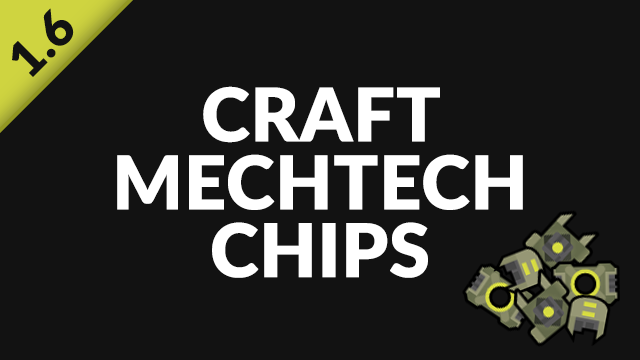
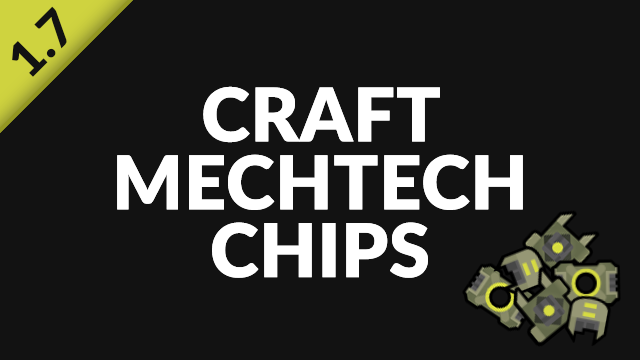
V1.7.0
* Updated to Rimworld 1.7

* Fixed line breaks

* Updated readme

diff --git a/README.md b/README.md
@@ -9,7 +9,7 @@ Unlock the power to craft mechtech chips through research once you've analyzed t
 
 Additionally, this mod introduces a research project for Mechlink crafting.
 
-This mod is safe to add or remove from your saves at any time (though it's best not to remove it during the crafting process).
+This mod can be added to existing saves. Before removing it, back up your save and finish or cancel any active crafting jobs and bills added by this mod.
 
 This mod is tailored for end-game progression, offering experienced players an alternative pathway to enhance their technological capabilities. It aims to offer a supplementary method for advancing within the game.
 
@@ -18,8 +18,8 @@ This mod is tailored for end-game progression, offering experienced players an a
 ![How to](images/rw-mod-strip.png)
 
 1. Analyze the chip.
-2. Unlock the crafting ability through research in the crafting tab.
-3. Fabricate the mechtech chip using a fabricator.
+2. Unlock the crafting ability through research in the Mechtech crafting tab.
+3. Fabricate the mechtech chip at a fabrication bench.
 
 ### ![Features](images/rimworld-features.png)
 
@@ -37,42 +37,51 @@ The ability to craft
 
 Now compatible with the AlphaMechs mod, allowing you to craft Hyper-linkage chips, Stellar processing chips, and Quantum matrix chips! (Ensure this mod is loaded after AlphaMechs for proper functionality.)
 
-## In-game values
-### Research time
-Requires Multi analyzer.
-- Signal chip: 3000
-- Powerfocus chip: 4000
-- Nanostructuring chip: 5000
+## In-game values (RimWorld 1.6 / 1.7)
+### Base research cost
+Requires Multi analyzer for Powerfocus, Nano structuring, and Mechlink research.
+- Signal chip: 2000
+- Powerfocus chip: 2500
+- Nanostructuring chip: 3000
+- Mechlink: 6000
 ### Crafting costs
 Requires Fabrication bench.
 #### Signal chip
 - Basic subcore (1)
-- Advanced component (6)
-- Plasteel (50)
+- Advanced component (4)
+- Plasteel (30)
 #### Powerfocus chip
 - Signal chip (2)
 - Standard subcore (1)
 - Advanced component (6)
-- Plasteel (75)
+- Plasteel (40)
 #### Nano structuring chip
 - Powerfocus chip (2)
 - High subcore (1)
-- Plasteel (120)
+- Plasteel (50)
 - Advanced component (8)
+- Uranium (10)
+#### Mechlink
+- High subcore (2)
+- Integrator headset (1)
+- AI persona core (1)
+- Advanced component (16)
 ### Skills needed to craft
 - Signal chip: 9 crafting (can be crafted by fabricators)
 - Powerfocus chip: 10 crafting (can be crafted by fabricators)
-- Nano structuring chip: 10 crafting, 16 intellectual (must be crafted by a colonist)
-### Amount of work (time)
+- Nano structuring chip: 10 crafting, 14 intellectual (must be crafted by a colonist)
+- Mechlink: 10 crafting, 18 intellectual (must be crafted by a colonist)
+### Work amount
 - Signal chip: 8000
 - Powerfocus chip: 10000
 - Nano structuring chip: 12000
-## In-game values for AlphaMechs
-### Research time
+- Mechlink: 18000
+## In-game values for AlphaMechs (RimWorld 1.6 / 1.7)
+### Base research cost
 Requires Multi analyzer.
-- Hyper-linkage chip: 6000
-- Stellar processing chip: 6000
-- Quantum matrix chip: 6000
+- Hyper-linkage chip: 3000
+- Stellar processing chip: 3000
+- Quantum matrix chip: 3000
 ### Crafting costs
 Requires Fabrication bench.
 #### Hyper-linkage chip
@@ -83,22 +92,26 @@ Requires Fabrication bench.
 #### Stellar processing chip
 - Hyper-linkage chip (2)
 - High subcore (2)
-- Advanced component (12)
+- Advanced component (8)
 - Uranium (10)
 #### Quantum matrix chip
 - Stellar processing chip (2)
-- High subcore (4)
-- Advanced component (12)
+- High subcore (3)
+- Advanced component (10)
 - Uranium (10)
 ### Skills needed to craft (must be crafted by a colonist)
-- Hyper-linkage chip: 10 crafting, 18 intellectual
-- Stellar processing chip: 12 crafting, 18 intellectual
-- Quantum matrix chip: 12 crafting, 20 intellectual
-### Amount of work (time)
+- Hyper-linkage chip: 10 crafting, 15 intellectual
+- Stellar processing chip: 10 crafting, 16 intellectual
+- Quantum matrix chip: 10 crafting, 18 intellectual
+### Work amount
 - Hyper-linkage chip: 14000
 - Stellar processing chip: 16000
 - Quantum matrix chip: 18000
 ## Patch notes
+### CMC build 1.7
+- Updated for Rimworld 1.7
+- Fixed some unintentional line breaks
+- Updated README values to match existing recipes and research costs
 ### CMC build 1.6
 - Updated for Rimworld 1.6
 - Restructured folders and stuff
